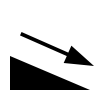
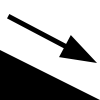
Updated new slope images

Changed region(s): [[0.0, 0.48, 1.0, 1.0], [0.06, 0.12, 0.99, 0.66]]

diff --git a/index.html b/index.html
@@ -26,13 +26,13 @@
 <!-- bar at the top -->
 <ul id="topBar">
     <li id="downButton" onclick="GUI.insertDown()">
-        <img src="images/Down.png" style="width:20px;height:20px;">
+        <img src="images/slope-down.png" style="width:20px;height:20px;">
     </li>
     <li id="upButton" onclick="GUI.insertUp()">
-        <img src="images/Up.png" style="width:20px;height:20px;">
+        <img src="images/slope-up.png" style="width:20px;height:20px;">
     </li>
     <li id="flatButton" onclick="GUI.flatTrack()">
-        <img src="images/Flat.png" style="width:20px;height:20px;">
+        <img src="images/slope-flat.png" style="width:20px;height:20px;">
     </li>
     <li id="leftBigButton" onclick="GUI.insertLeftBig()" style="
         background: #00ff00;">
